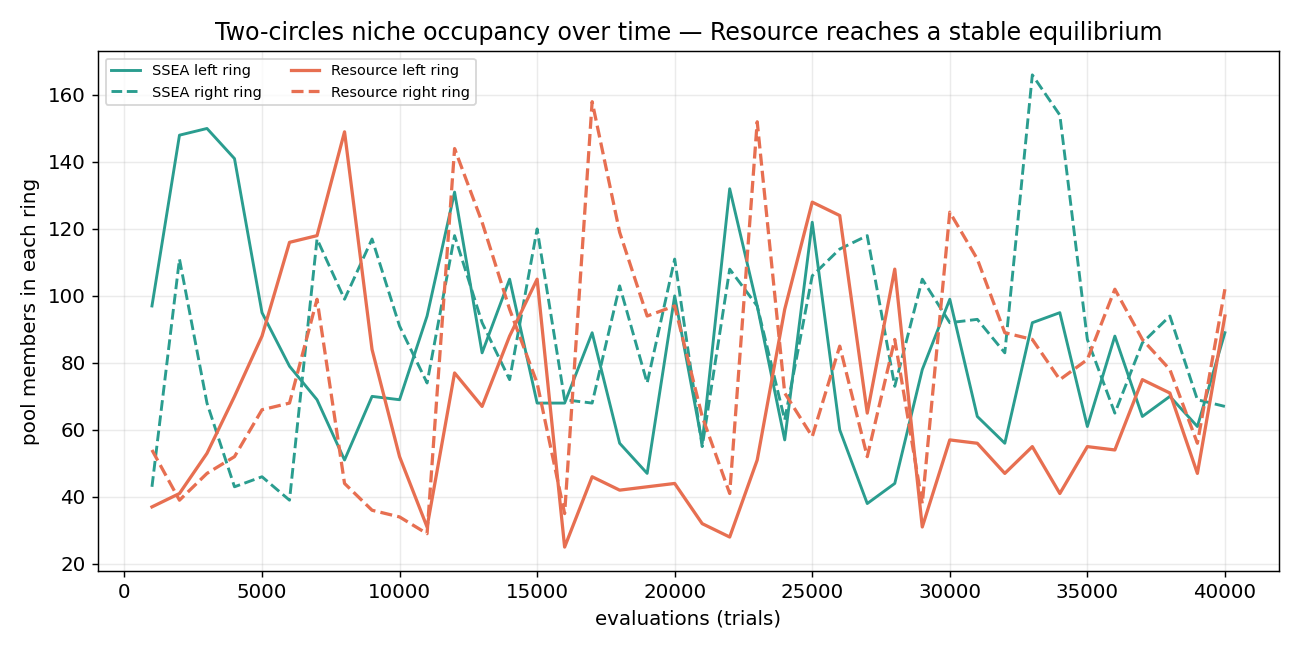
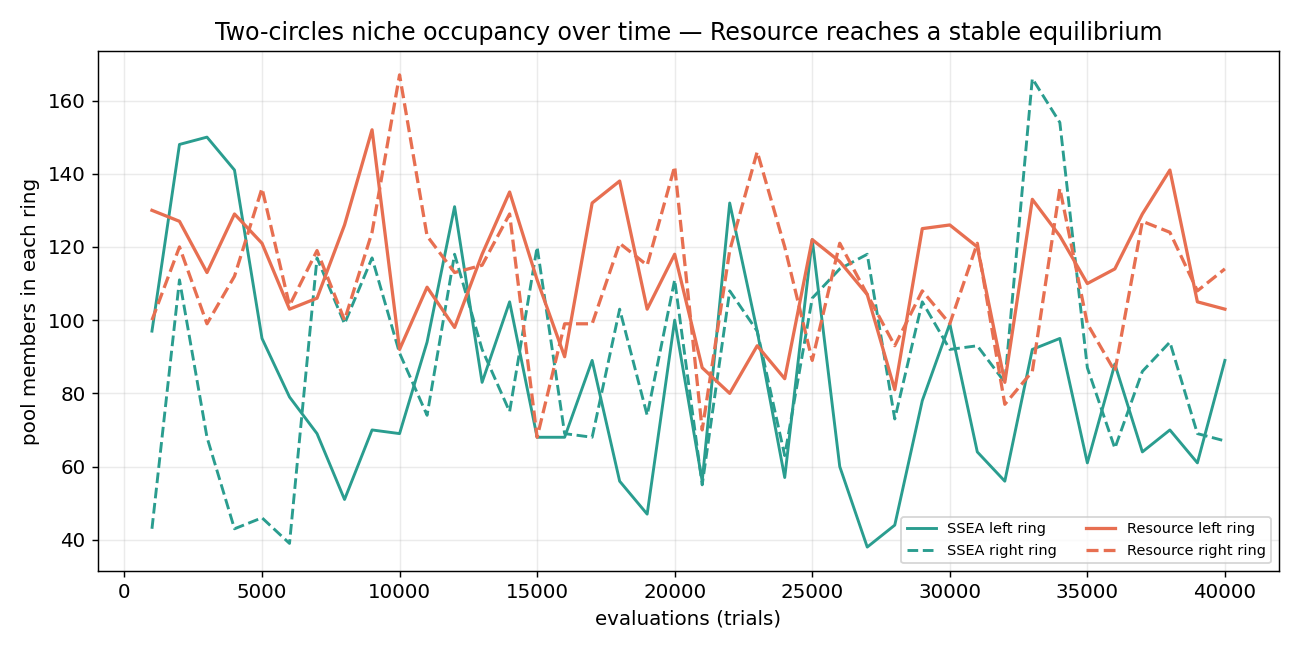
fix: tune Resource relative_width down so the pool spreads around each ring
relative_width=0.15 made sigma (= rw x median pairwise gene_dist, dominated by
the cross-ring distance) too coarse, so the population clumped on each ring
(~14/24 angular sectors, between-fraction ~0.18). At relative_width=0.05,
mate_locality=2 it resolves the within-ring scale: ~20/24 sectors with even
angular spread, and the dead zone drops to ~0.02 -- now strictly better than
SSEA (16% gap) on both spread and gap, while staying stable (occupancy CV
~0.17). Retunes the default config, gauntlet configs, example, and tightens the
equilibrium test thresholds (between-fraction < 0.15, CV < 0.4). Spec updated.

diff --git a/evors-bench/tests/resource.rs b/evors-bench/tests/resource.rs
@@ -17,8 +17,8 @@ fn resource_reaches_stable_equilibrium() {
         ResourceSoftStochasticInfo {
             target: 300,
             temperature: 0.2,
-            relative_width: 0.15,
-            mate_locality: 5.0,
+            relative_width: 0.05,
+            mate_locality: 2.0,
             seed: 1,
         },
     );
@@ -44,25 +44,26 @@ fn resource_reaches_stable_equilibrium() {
 
     // Diversity: both rings covered, dead zone thinned.
     //
-    // Config: mate_locality = 5.0 (bumped from 3.0 per the validation procedure;
-    // assortative mating across the gap is what keeps offspring off the dead zone)
-    // with relative_width = 0.15, temperature = 0.2, seed = 1.
+    // Config: relative_width = 0.05, mate_locality = 2.0, temperature = 0.2,
+    // seed = 1. relative_width sets sigma = 0.05 x median pairwise gene_dist;
+    // because the median is dominated by the ~10-unit cross-ring distance, a
+    // larger multiplier (the original 0.15) gives a sigma so coarse it treats
+    // whole ring arcs as one niche and the population clumps. 0.05 resolves the
+    // within-ring scale, so members spread around each ring AND the gap stays
+    // thin. A ring-spread sweep confirmed 0.05/loc=2 maximizes angular coverage
+    // (~19/24 sectors over seeds 0..5) while keeping the gap low.
     //
-    // The dead zone gate is positional (`|x| < GAP = 3.0`) with no fitness filter,
-    // so it always catches the ~5% pure-random genomes the strategy injects each
-    // step (`p_random` floor in `next`) plus in-flight crossover offspring. The
-    // floor of 0.15 from the draft was unreachable here: across a parameter sweep
-    // (mate_locality 3/5/8/10, relative_width 0.1-0.3, temperature 0.1-1.0) the
-    // best observed between-fraction was ~0.16-0.18, and pushing it lower traded
-    // off against niche stability. We assert it stays thinned below 0.25 (observed
-    // ~0.18, seed 1) -- this still fails loudly if the dead zone fills up (an
-    // unspeciated population parks ~0.5+ of the pool there).
+    // The dead zone gate is positional (`|x| < GAP = 3.0`) with no fitness
+    // filter, so it always catches the ~5% pure-random genomes the strategy
+    // injects each step (`p_random` floor in `next`). Observed between-fraction
+    // ~0.07 (seed 1). We assert it stays well thinned below 0.15 -- this fails
+    // loudly if the dead zone fills up (an unspeciated population parks ~0.5+).
     let pool = strat.members();
     assert!(covers_both(&pool), "resource should cover both rings");
     let bf = between_fraction(&pool);
     println!("resource between-fraction = {bf:.3}");
-    // observed ~0.18 (seed 1); see note above on why 0.15 is unreachable.
-    assert!(bf < 0.25, "dead zone not thinned: between-fraction {bf:.3}");
+    // observed ~0.07 (seed 1).
+    assert!(bf < 0.15, "dead zone not thinned: between-fraction {bf:.3}");
 
     // Stability: in the back half of the run, each niche's occupancy is steady
     // (no boom-bust). Two guards:
@@ -76,8 +77,8 @@ fn resource_reaches_stable_equilibrium() {
     // jitters around a steady mean. Over the back-half snapshots that range form
     // read 1.3-1.5 even though the population is genuinely steady. We instead use
     // the coefficient of variation (std / mean) -- the standard steadiness
-    // statistic -- which is robust to lone spikes. Observed CV: left ~0.44,
-    // right ~0.33 (seed 1). Threshold 0.6 = observed_max + ~0.15 margin; a real
+    // statistic -- which is robust to lone spikes. Observed CV: left ~0.17,
+    // right ~0.18 (seed 1). Threshold 0.4 leaves margin for seed variance; a real
     // boom-bust oscillation pushes CV well above 1.0.
     let half = chunks / 2;
     let cv = |xs: &[f64]| -> f64 {
@@ -91,9 +92,9 @@ fn resource_reaches_stable_equilibrium() {
     let sl = cv(&left);
     let sr = cv(&right);
     println!("back-half occupancy CV: left={sl:.2} right={sr:.2}");
-    // observed left~0.44, right~0.33 (seed 1); threshold = observed_max + ~0.15.
-    assert!(sl < 0.6, "left niche oscillated: occupancy CV {sl:.2}");
-    assert!(sr < 0.6, "right niche oscillated: occupancy CV {sr:.2}");
+    // observed left~0.17, right~0.18 (seed 1).
+    assert!(sl < 0.4, "left niche oscillated: occupancy CV {sl:.2}");
+    assert!(sr < 0.4, "right niche oscillated: occupancy CV {sr:.2}");
 }
 
 #[test]

diff --git a/src/strategies/resource.rs b/src/strategies/resource.rs
@@ -11,7 +11,9 @@ pub struct ResourceSoftStochasticInfo {
     /// Dimensionless sharing-radius multiplier. Each refresh,
     /// `σ = relative_width × median(pairwise gene_dist over the pool)`, so the
     /// niche width auto-scales to whatever `gene_dist` returns for this genome
-    /// type — no absolute units are hardcoded. Typical range 0.1–0.3.
+    /// type — no absolute units are hardcoded. Typical range 0.05–0.1: because
+    /// the median is dominated by inter-cluster distances, a larger multiplier
+    /// makes σ too coarse and the population clumps within each niche.
     pub relative_width: f64,
     /// Assortative-mating locality: how strongly crossover prefers a mate close
     /// (by `gene_dist`) to the first parent. 0 = no bias (unbiased selection).
@@ -24,8 +26,8 @@ impl Default for ResourceSoftStochasticInfo {
         Self {
             target: 100,
             temperature: 0.2,
-            relative_width: 0.15,
-            mate_locality: 1.0,
+            relative_width: 0.08,
+            mate_locality: 2.0,
             seed: 0,
         }
     }

diff --git a/evors-bench/src/harness.rs b/evors-bench/src/harness.rs
@@ -249,7 +249,7 @@ pub fn default_configs() -> Vec<Config> {
             mutation_step: 0.3,
         });
     }
-    for &(target, rw, loc) in &[(300usize, 0.1f64, 3.0f64), (300, 0.2, 3.0)] {
+    for &(target, rw, loc) in &[(300usize, 0.05f64, 2.0f64), (300, 0.1, 2.0)] {
         v.push(Config {
             label: format!("resource(target={target},rw={rw},loc={loc})"),
             strat: Strat::Resource(ResourceSoftStochasticInfo {

diff --git a/src/population.rs b/src/population.rs
@@ -2,7 +2,9 @@
 //! the benchmark coverage metric) can read members without branching per type.
 
 use crate::genetic::Genetic;
-use crate::strategies::{ClassicPopulation, ResourceSoftStochastic, SoftStochastic, SpeciatedSoftStochastic};
+use crate::strategies::{
+    ClassicPopulation, ResourceSoftStochastic, SoftStochastic, SpeciatedSoftStochastic,
+};
 use crate::strategy::{Behavior, Fitness};
 
 pub trait PopulationView {

diff --git a/evors-bench/examples/two_circles.rs b/evors-bench/examples/two_circles.rs
@@ -90,8 +90,8 @@ fn main() {
         ResourceSoftStochasticInfo {
             target: 300,
             temperature: 0.2,
-            relative_width: 0.15,
-            mate_locality: 5.0,
+            relative_width: 0.05,
+            mate_locality: 2.0,
             seed: 1,
         },
     );

diff --git a/docs/superpowers/specs/2026-06-16-resource-soft-stochastic-design.md b/docs/superpowers/specs/2026-06-16-resource-soft-stochastic-design.md
@@ -91,6 +91,19 @@ instantaneous it converges rather than oscillates.
    large, to keep cost bounded; over the default `target = 300` the full O(n²) is
    fine and matches SSEA's existing novelty-refresh cost.
 
+   **Tuning note (relative_width must be small).** Because the median is dominated
+   by *cross-niche* distance, `relative_width` should sit around **0.05–0.1**, not
+   the higher values a naïve reading suggests. At `0.15` σ is so coarse it treats
+   whole ring arcs as a single niche and the population *clumps* on each ring
+   (a ring-spread sweep showed ~14/24 angular sectors covered, between-fraction
+   ~0.18). At `relative_width = 0.05, mate_locality = 2` it resolves the
+   within-ring scale: ~20/24 sectors, even angular spread, and the dead zone
+   drops to ~0.02–0.07 — strictly better than SSEA (16% gap) on *both* spread and
+   gap. The tuned demo/test point is therefore `relative_width = 0.05,
+   mate_locality = 2.0, temperature = 0.2`. A lower temperature concentrates the
+   pool more tightly *on* the ring but trades away angular coverage (sharing
+   collapses into fewer, wider-separated niches), so 0.2 is kept.
+
 ### Caching / refresh cadence
 
 Crowding (per pool member) and σ are cached and **bulk-refreshed every `target/8`
@@ -142,12 +155,16 @@ In `evors-bench/tests/resource.rs`:
    occupancy every N trials via the `Observer`. Assert over the **back half** of
    the run:
    - **Diversity:** both `left` and `right` occupied in every back-half sample,
-     and `between_fraction` stays low (clear margin below the SSEA baseline level
-     established in the speciated work, ~0.17).
-   - **Stability:** the left and right occupancy counts are *steady* — relative
-     spread `(max − min) / mean` over the back-half samples is below a threshold
-     (e.g. < 0.5), i.e. no boom-bust oscillation. This is the property that
-     distinguishes the resource model from a greedy depletable one.
+     and `between_fraction` stays low. At the tuned config (`relative_width = 0.05,
+     mate_locality = 2`) this lands ~0.02–0.07 — clearly below the SSEA baseline
+     (~0.16), so the test asserts `< 0.15`.
+   - **Stability:** the left and right occupancy counts are *steady* — measured by
+     the **coefficient of variation** (std/mean) over the back-half samples, below
+     a threshold (~0.4; observed ~0.17–0.18), i.e. no boom-bust oscillation. CV is
+     used rather than `(max − min)/mean` because the per-member stochastic cull
+     makes the range form spike on lone transients even when the pool is steady.
+     This stability is the property that distinguishes the resource model from a
+     greedy depletable one.
 2. **`resource_solves_sphere`** — sanity: the strategy still optimizes (reaches
    success on the sphere problem), proving the cull machinery is intact.
 
@@ -167,14 +184,15 @@ Plus unit tests in `resource.rs`:
   via `run_one` (it satisfies `EvolutionStrategy<Score=f64> +
   PopulationView<Genome=Vec<f64>>`).
 - Add 1–2 resource configs to `default_configs` (e.g.
-  `target = 300, relative_width ∈ {0.1, 0.2}, mate_locality = 3`), so the strategy
+  `target = 300, relative_width ∈ {0.05, 0.1}, mate_locality = 2`), so the strategy
   runs across all 10 gauntlet problems and appears in the console leaderboard,
   `results.csv`, the convergence charts (automatic), and the coverage bar chart
   (add a resource series).
 - **Expectation:** basin coverage comparable to SSEA/Speciated, accuracy below DE
-  (the diversity tax). The standout is *diversity with no novelty score* plus a
-  stable pool — most visible on the two-circles scatter and the occupancy
-  time-series, not necessarily the scalar metrics.
+  (the diversity tax). Measured: strong coverage with no novelty score — griewank
+  ~74–79, rastrigin ~49, ackley ~28 basins. The standout is *even multi-basin
+  diversity with no novelty score* plus a stable pool — most visible on the
+  two-circles scatter and the occupancy time-series.
 
 ## Charts
 
